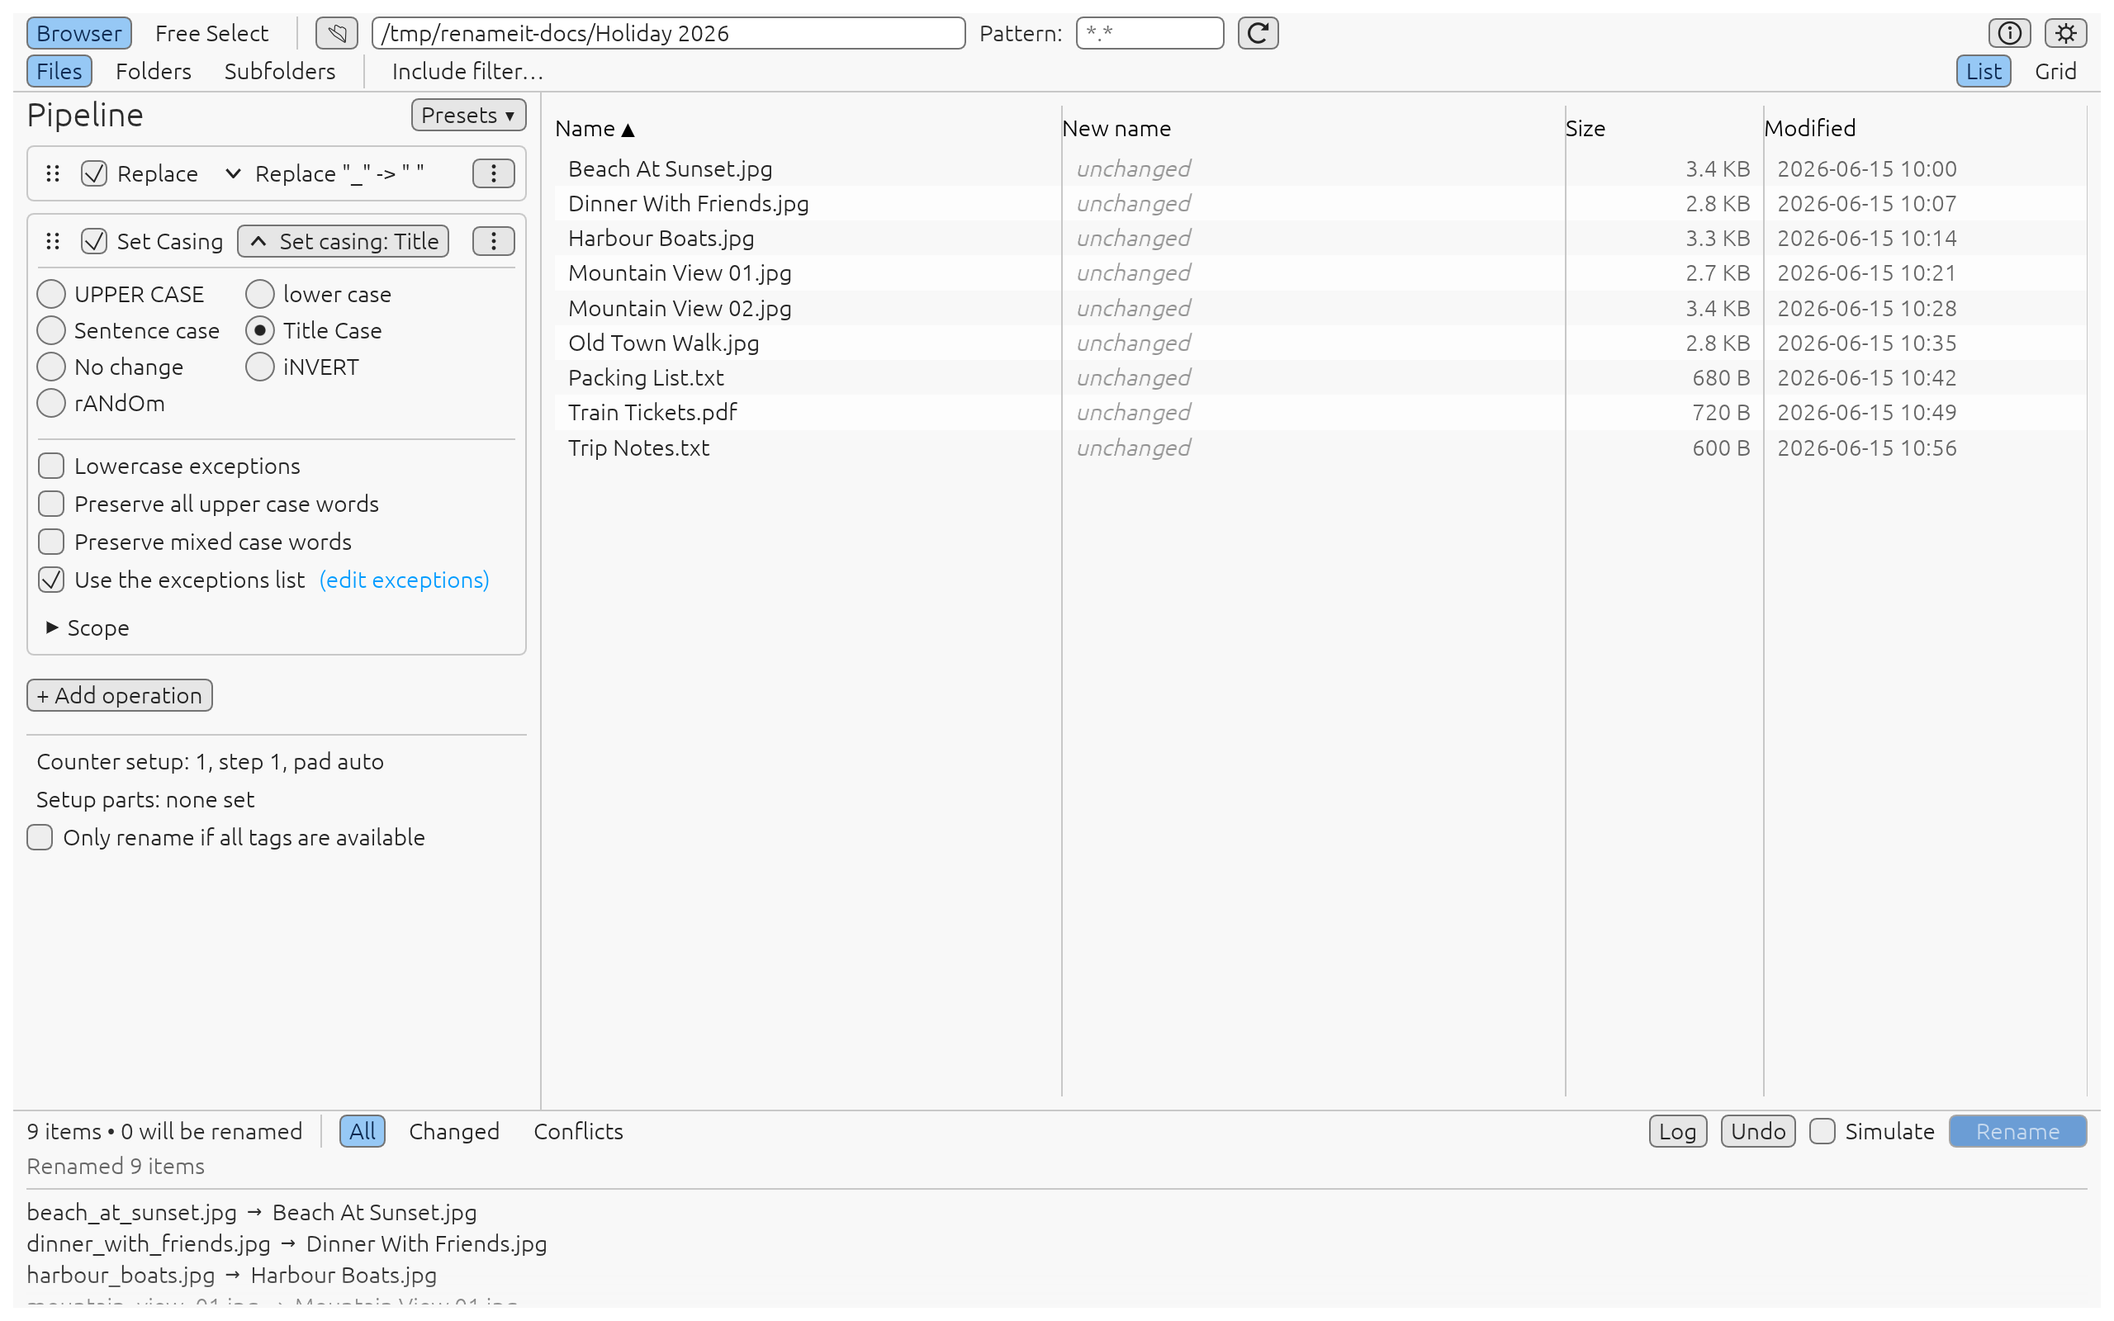
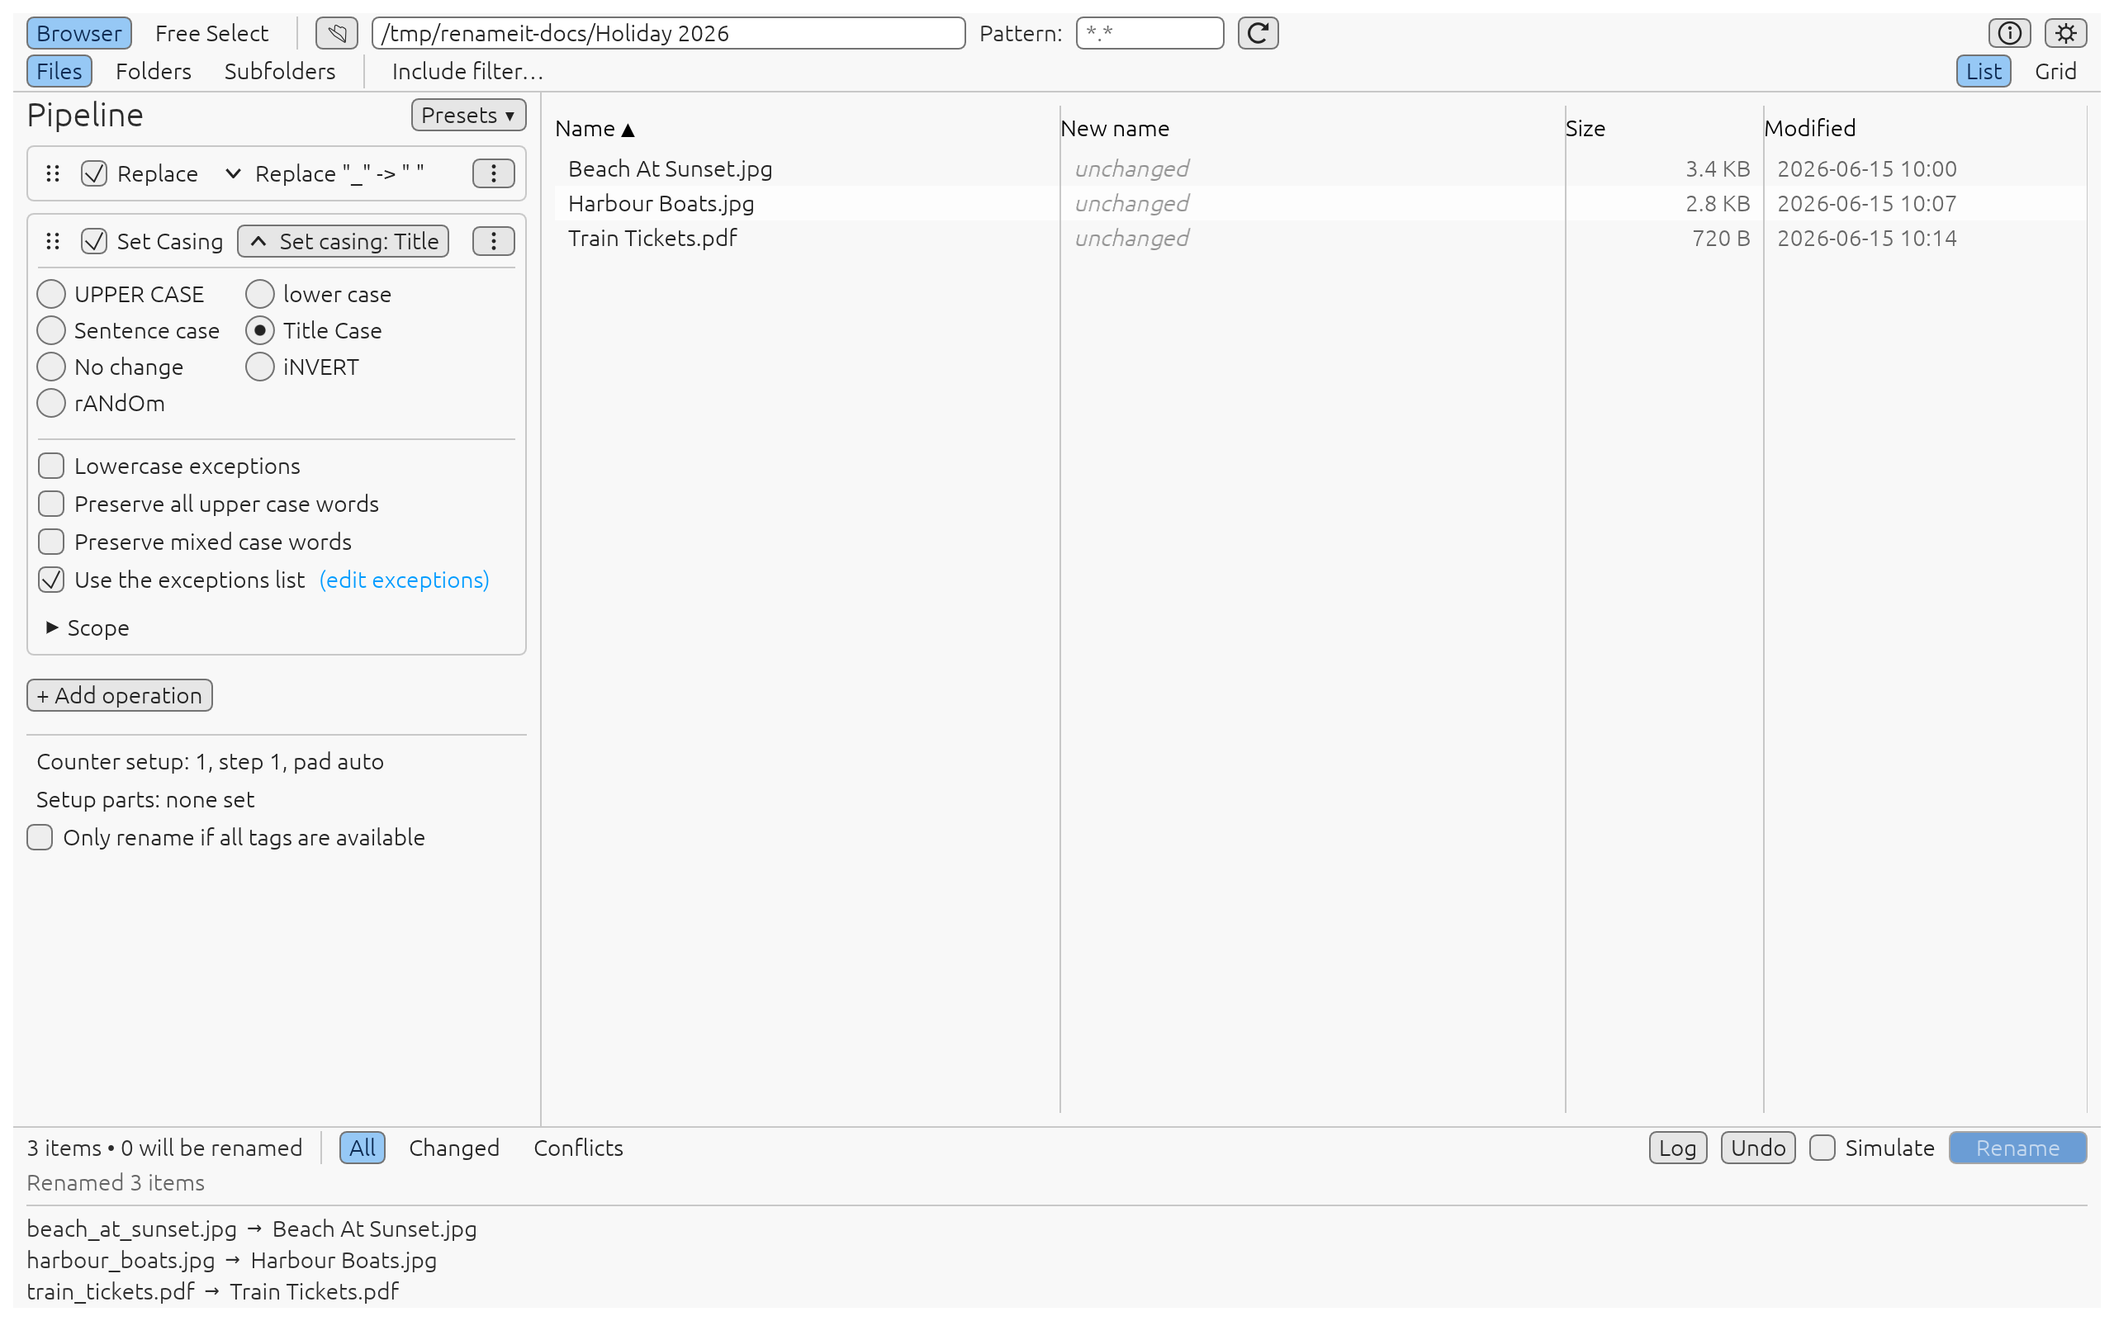
Docs: screenshots show what their captions say
Visual Assist renders in a 1280x1000 window so the strip's readout and its
Select/Cancel row fit on the card stack, and asserts the Select button. The
palette shot types "tags" so the list ends on a whole entry instead of
scrolling past Re-Number. After a run uses three files, so the run log (which
opens at a scroll area's 64 pt minimum) shows every line. Each Settings shot
asserts a label only its own page has, not the shared Close button.

The empty-folder caption and test name the message the window really draws,
"No files listed"; the conflict caption credits the status bar and the
Rename button's hover text; Visual Assist's text says to press Select; the
gallery lists the row menu among what is not pictured; the README's recovery
banner image is its own block inside the bullet.

diff --git a/crates/ren-gui/tests/snapshots.rs b/crates/ren-gui/tests/snapshots.rs
@@ -257,8 +257,8 @@ fn main_preview_dark() {
 fn main_empty() {
     let demo = Demo::new("Empty folder");
     let mut harness = light(demo.app());
-    // The "Nothing here" message is painted, not a widget.
     assert!(harness.state().session().entries().is_empty());
+    harness.get_by_label("No files listed");
     shoot(&mut harness, "main-empty");
 }
 
@@ -274,16 +274,20 @@ fn main_conflict() {
     shoot(&mut harness, "main-conflict");
 }
 
+/// Three files, not the whole holiday folder: the run log opens at a
+/// scroll area's minimum height, which a fourth line would overflow.
 #[test]
 fn main_after_run() {
-    let demo = holiday();
+    let demo = Demo::new("Holiday 2026")
+        .pictures(&["beach_at_sunset.jpg", "harbour_boats.jpg"])
+        .files(&["train_tickets.pdf"]);
     let mut harness = light(demo.app());
     tidy_up(&mut harness);
     harness.state_mut().run_now();
     settle(&mut harness);
     assert!(demo.dir.join("Train Tickets.pdf").exists());
     let status = harness.state().status().unwrap_or_default().to_owned();
-    assert!(status.contains("Renamed 9 items"), "{status}");
+    assert!(status.contains("Renamed 3 items"), "{status}");
     shoot(&mut harness, "main-after-run");
 }
 
@@ -377,7 +381,13 @@ fn palette_add_operation() {
     let mut harness = light(demo.app());
     harness.state_mut().open_palette();
     settle(&mut harness);
-    harness.get_by_label("Music Rename");
+    // Narrowed, so the list ends on a whole entry: the full catalogue
+    // scrolls. The search box has the focus from the moment it opens.
+    harness.event(egui::Event::Text("tags".to_owned()));
+    settle(&mut harness);
+    harness.get_by_label("Free Format");
+    harness.get_by_label("Remove Tags");
+    assert!(harness.query_by_label("Set Casing").is_none());
     shoot(&mut harness, "palette-add-operation");
 }
 
@@ -467,6 +477,8 @@ fn dialog_ask() {
 fn visual_assist() {
     let demo = holiday();
     let mut harness = light(demo.app());
+    // Taller, so the strip fits on the card stack without scrolling.
+    harness.set_size(egui::vec2(1280.0, 1000.0));
     *harness.state_mut().operation_mut() = OpKind::Replace(Replace::new("", "-"));
     settle(&mut harness);
     harness.get_by_label_contains("⌖ find").click();
@@ -475,50 +487,65 @@ fn visual_assist() {
     harness.state_mut().visual_assist_select(5, 4);
     settle(&mut harness);
     harness.get_by_label_contains("Selection length: 4");
+    harness.get_by_label("Select");
     shoot(&mut harness, "visual-assist");
 }
 
-fn settings_page(page: &str, name: &str) {
+/// `expect` is a label only that page shows, so a missed rail click fails
+/// here rather than only in the pixel diff.
+fn settings_page(page: &str, expect: &str, name: &str) {
     let demo = holiday();
     let mut harness = light(demo.app());
     open_settings_page(&mut harness, page);
-    harness.get_by_label("Close");
+    harness.get_by_label_contains(expect);
     shoot(&mut harness, name);
 }
 
 #[test]
 fn settings_batch_replace() {
-    settings_page("Batch Replace", "settings-batch-replace");
+    settings_page(
+        "Batch Replace",
+        "a new Batch Replace operation starts from",
+        "settings-batch-replace",
+    );
 }
 
 #[test]
 fn settings_music_styles() {
-    settings_page("Music Styles", "settings-music-styles");
+    settings_page("Music Styles", "+ Add style", "settings-music-styles");
 }
 
 #[test]
 fn settings_casing_exceptions() {
-    settings_page("Casing Exceptions", "settings-casing-exceptions");
+    settings_page(
+        "Casing Exceptions",
+        "Exception words",
+        "settings-casing-exceptions",
+    );
 }
 
 #[test]
 fn settings_display() {
-    settings_page("Display", "settings-display");
+    settings_page("Display", "Shade every other row", "settings-display");
 }
 
 #[test]
 fn settings_file_system() {
-    settings_page("File System", "settings-file-system");
+    settings_page(
+        "File System",
+        "Hidden files and folders",
+        "settings-file-system",
+    );
 }
 
 #[test]
 fn settings_startup() {
-    settings_page("Startup", "settings-startup");
+    settings_page("Startup", "Uncheck Subfolders", "settings-startup");
 }
 
 #[test]
 fn settings_appearance() {
-    settings_page("Appearance", "settings-appearance");
+    settings_page("Appearance", "Interface size", "settings-appearance");
 }
 
 #[test]

diff --git a/docs/DECISIONS.md b/docs/DECISIONS.md
@@ -505,7 +505,7 @@ A second read of the whole workspace — 259 confirmed findings, fixed in eight 
 | D245 (2026-09-25) | **A close is held in eframe's `App::logic`, which also runs while the window is minimised.** Amends **D222**. `RenameItApp::logic_pass` handles a close request, lands a finished job and closes a window whose close was held back; eframe's `logic` calls it before every ui pass and on its own for a hidden window, and `show` calls it too, for whoever drives `show` alone. | eframe runs no ui pass for a minimised window, only `logic`, so a close from the taskbar was granted mid-undo — the half-reverted batch D222 exists to prevent — and a job landing while the window stayed hidden never closed it. |
 | D246 (2026-09-25) | **Free Select and a hand-set order follow a rename report at any depth and in either order.** Amends **D157** and **D139**. A path is rewritten through its deepest moved ancestor (the path itself first) at a depth not yet rewritten, pass after pass, until none is left: a run's deepest-first pairs and an undo's folder-before-file pairs both land, however deep the nesting. Each depth is rewritten once, so two folders that swapped names are not chased round. | A single step up lost a file under two renamed folders, and a file after the undo of its renamed folder, which the undo puts back before the file; each became a *gone* problem row and dropped out of a hand-set order. |
 | D247 (2026-10-23) | **eframe is also built with `clipboard`, and egui with `monochrome_emoji_fonts`.** Amends **D14** and **D218**. egui/eframe 0.37 moved two things the app had behind features of their own, and `default-features = false` (or egui's empty default set) dropped both: the OS clipboard, without which Ctrl+C/X/V in a text field reach a clipboard private to the process and no other program; and the NotoEmoji and emoji-icon-font faces in egui's default fonts, without which the UI's own marks (`✖ ⛔ 📁 ⟳ ✨ ⌖`) draw as boxes. Both are named back. CI's D218 check now covers `clipboard` on both targets, and `theme::tests::every_glyph_the_ui_types_is_one_the_fonts_can_draw` already covers the fonts. Neither adds a crate or a licence: `arboard` (plus `smithay-clipboard` on Wayland) and the two faces are what the 0.36 build shipped. eframe 0.37's other new default, `system_fonts` (system font fallback and colour emoji through `fontique`), stays off: it is new behaviour and a new tree to audit, not something the app lost. | Copy and paste that stop crossing to other programs would pass every test, because the kittest harness fakes the clipboard either way. |
-| D248 (2026-10-23) | **The GUI's screens are image snapshots, and those images are the docs' screenshots.** Amends **D14** and **D24**, for tests only. `ren-gui` takes `egui_kittest`'s `snapshot` and `wgpu` features as a **Linux-only dev-dependency**; `crates/ren-gui/tests/snapshots.rs` drives the real app to each documented screen (main window light and dark, empty, conflict, after a run, Free Select, grid, writing systems, recovery banner, palette, preset drawer, Music Rename, the irreversible-run and `<Ask>` dialogs, Visual Assist, seven Settings pages, the reset dialog), asserts it is there, and compares a render at `pixels_per_point` 2 in a 1280×800 window with `docs/screenshots/<name>.png` — the files the README and the gallery embed, so there is one copy of each image. Rendering is wgpu on Mesa's lavapipe (`mesa-vulkan-drivers` in CI's apt list); the Windows job does not build the file. Demo folders sit at fixed `/tmp/renameit-docs/` paths with fixed local mtimes, so the address bar and the Modified column render the same in any zone; the tests run one at a time, which the shared paths need and which lavapipe needed too (parallel device creation crashed it). `scripts/docs-screenshots.sh` rewrites every image (`UPDATE_SNAPSHOTS=force`) and runs oxipng. **The shipped binary stays glow-only:** CI runs `cargo tree -e no-dev -i wgpu` (and `-i colored`) on both targets and fails on any output. `deny.toml` now audits the licences of dev-dependencies too (`include-dev = true`); the new test tree needs one more licence, **MPL-2.0**, for `colored` alone — `dify`'s terminal colouring, under `egui_kittest`'s image diff — allowed as a crate-scoped exception in `deny.toml` (D238's pattern), never globally; every other crate it adds is already inside D2's list. The About window is not snapshotted: it carries the version, and every release would churn it. Shell Integration is not either: Linux renders the page's "nothing to install" branch, not the one Windows users see. Nor is the row menu: while it is open the harness never sees the preview settle ("updating…" on every frame), which is worth a look of its own. Nor is Problem Solver: it prints the scripts folder under the runner's home directory, which differs per machine (the reset dialog, which covers that row, is shot instead). | D24 kept a GPU out of CI, so nothing proved what a screen *looks like*: a tile showing the wrong picture or a font drawing boxes passed every test, and `docs/manual-checks.md` carried those as by-eye rows. Screenshots drawn by hand go stale the same way. Making the test images the documentation's images means a UI change cannot land without either matching its screenshots or replacing them, and a reviewer sees the new picture in the diff. lavapipe makes the render a CPU job with no GPU on the runner, which is what D24 actually required. |
+| D248 (2026-10-23) | **The GUI's screens are image snapshots, and those images are the docs' screenshots.** Amends **D14** and **D24**, for tests only. `ren-gui` takes `egui_kittest`'s `snapshot` and `wgpu` features as a **Linux-only dev-dependency**; `crates/ren-gui/tests/snapshots.rs` drives the real app to each documented screen (main window light and dark, empty, conflict, after a run, Free Select, grid, writing systems, recovery banner, palette, preset drawer, Music Rename, the irreversible-run and `<Ask>` dialogs, Visual Assist, seven Settings pages, the reset dialog), asserts it is there, and compares a render at `pixels_per_point` 2 in a 1280×800 window (1280×1000 for Visual Assist, so its strip fits on the card stack) with `docs/screenshots/<name>.png` — the files the README and the gallery embed, so there is one copy of each image. Rendering is wgpu on Mesa's lavapipe (`mesa-vulkan-drivers` in CI's apt list); the Windows job does not build the file. Demo folders sit at fixed `/tmp/renameit-docs/` paths with fixed local mtimes, so the address bar and the Modified column render the same in any zone; the tests run one at a time, which the shared paths need and which lavapipe needed too (parallel device creation crashed it). `scripts/docs-screenshots.sh` rewrites every image (`UPDATE_SNAPSHOTS=force`) and runs oxipng. **The shipped binary stays glow-only:** CI runs `cargo tree -e no-dev -i wgpu` (and `-i colored`) on both targets and fails on any output. `deny.toml` now audits the licences of dev-dependencies too (`include-dev = true`); the new test tree needs one more licence, **MPL-2.0**, for `colored` alone — `dify`'s terminal colouring, under `egui_kittest`'s image diff — allowed as a crate-scoped exception in `deny.toml` (D238's pattern), never globally; every other crate it adds is already inside D2's list. The About window is not snapshotted: it carries the version, and every release would churn it. Shell Integration is not either: Linux renders the page's "nothing to install" branch, not the one Windows users see. Nor is the row menu: while it is open the harness never sees the preview settle ("updating…" on every frame), which is worth a look of its own. Nor is Problem Solver: it prints the scripts folder under the runner's home directory, which differs per machine (the reset dialog, which covers that row, is shot instead). | D24 kept a GPU out of CI, so nothing proved what a screen *looks like*: a tile showing the wrong picture or a font drawing boxes passed every test, and `docs/manual-checks.md` carried those as by-eye rows. Screenshots drawn by hand go stale the same way. Making the test images the documentation's images means a UI change cannot land without either matching its screenshots or replacing them, and a reviewer sees the new picture in the diff. lavapipe makes the render a CPU job with no GPU on the runner, which is what D24 actually required. |
 
 ## How to add a decision
 

diff --git a/docs/screenshots/README.md b/docs/screenshots/README.md
@@ -19,15 +19,15 @@ The same in the dark theme (Settings ▸ Appearance).
 
 ## An empty folder
 
-The list says why it is empty and how to fill it.
+A folder with nothing in it: the list reads *No files listed*.
 
-<img src="main-empty.png" alt="The main window over an empty folder, with the message Nothing here" width="800">
+<img src="main-empty.png" alt="The main window over an empty folder, with the message No files listed" width="800">
 
 ## A conflict
 
 Two files would end up with the same name, so the whole run is blocked: the
-Conflicts filter counts them and the Rename button is greyed out with the
-reason.
+status bar counts the conflicts and Rename is greyed out (hover it for the
+reason).
 
 <img src="main-conflict.png" alt="Two rows marked as conflicting and the Rename button disabled" width="800">
 
@@ -68,9 +68,10 @@ names the file that was mid-change and offers **Roll back** or **Leave as is**.
 
 ## Adding an operation
 
-**+ Add operation** or **Ctrl+K**: every operation, searchable.
+**+ Add operation** or **Ctrl+K**: every operation, in groups; typing narrows
+the list — here *tags* leaves the Music operations and Free Format.
 
-<img src="palette-add-operation.png" alt="The add-operation palette listing the operations" width="800">
+<img src="palette-add-operation.png" alt="The add-operation palette with tags typed in the search box, listing Music Rename, Music Tagger, Remove Tags and Free Format" width="800">
 
 ## Presets
 
@@ -101,7 +102,7 @@ A pipeline with `<Ask>` in it asks for the text when you press Rename.
 ## Visual Assist
 
 The ⌖ button beside a position or find box (or **F3**) shows the text that
-operation is handed; select part of it and the boxes fill in.
+operation is handed; select part of it and press **Select** to fill the box.
 
 <img src="visual-assist.png" alt="The Visual Assist strip on a Find &amp; Replace card: the name beach_at_sunset with _at_ selected" width="800">
 
@@ -160,5 +161,6 @@ put back before it does.
 
 Not pictured: **About** (it carries the version, so every release would change
 it), **Shell Integration** (a Linux render shows the page's "nothing to
-install" branch, not the Windows one) and **Problem Solver** (it prints the
-machine's own home folder).
+install" branch, not the Windows one), **Problem Solver** (it prints the
+machine's own home folder) and the **row menu** (while it is open the preview
+never settles in the test harness).

diff --git a/README.md b/README.md
@@ -175,7 +175,7 @@ WMA and TTA are **not** supported — lofty handles neither. See D55 in
 Operations that work by position — Add, Remove, Move Section — and Find &
 Replace's *Look For* box each carry a ⌖ button, and **F3** opens the same thing.
 It shows the text that operation is handed for one of your files; select part of
-it and the boxes fill in.
+it and press **Select** to fill the box.
 
 The text it shows is the operation's own input, which is not always the file
 name: a card further down the stack sees what the cards above it produced, and a
@@ -365,7 +365,8 @@ or a killed process leaves a record of exactly what was under way.
   those batches did; **Leave as is** hides the banner and keeps the journals. A
   journal another RenameIt window is still writing is named as running and is
   never offered for rollback.
-<img src="docs/screenshots/main-recovery-banner.png" alt="The banner at start-up naming a batch that did not finish, with Roll back and Leave as is" width="800">
+
+  <img src="docs/screenshots/main-recovery-banner.png" alt="The banner at start-up naming a batch that did not finish, with Roll back and Leave as is" width="800">
 
 * **From the command line**, `ren-cli recover` lists the same, and
   `ren-cli recover --rollback` reverts them. An `apply` that exits 3 is the cue.
